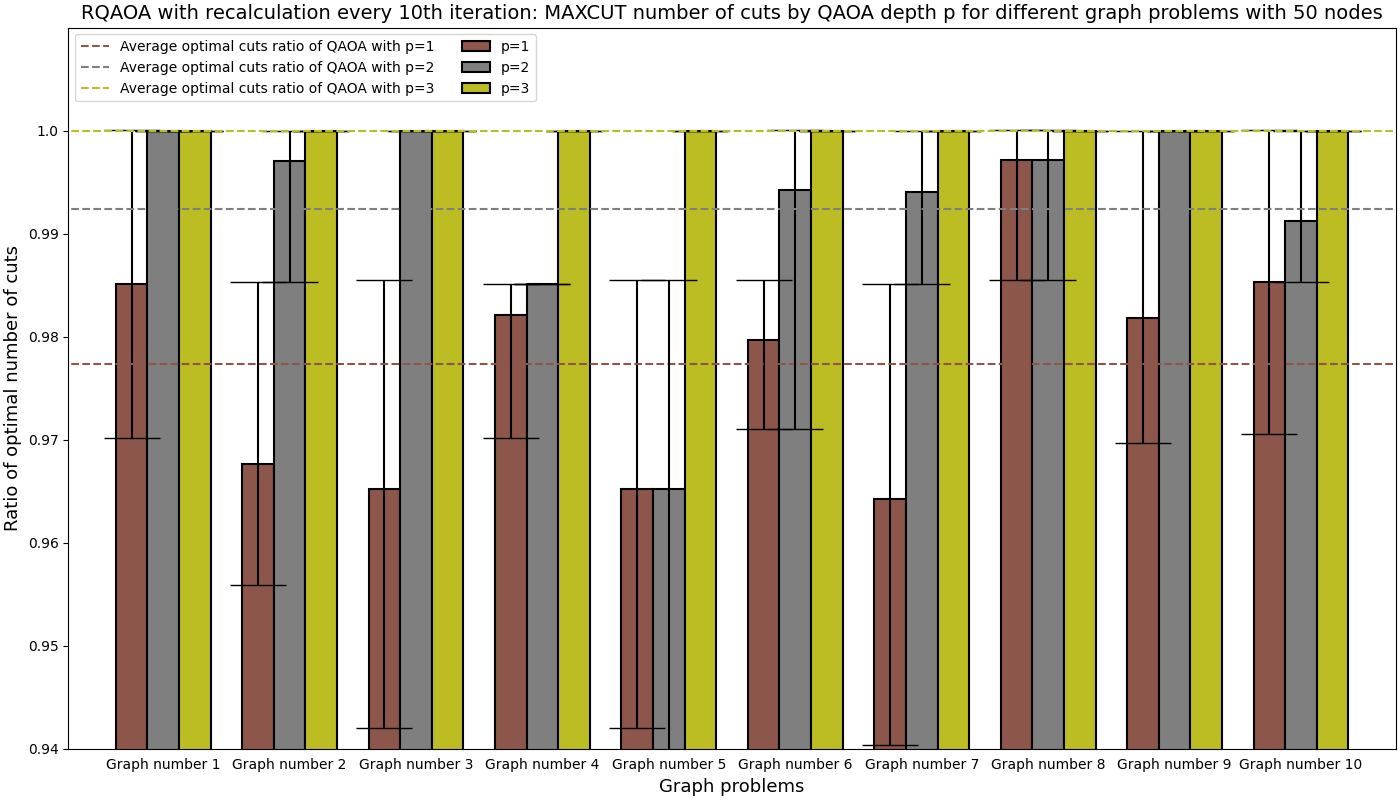
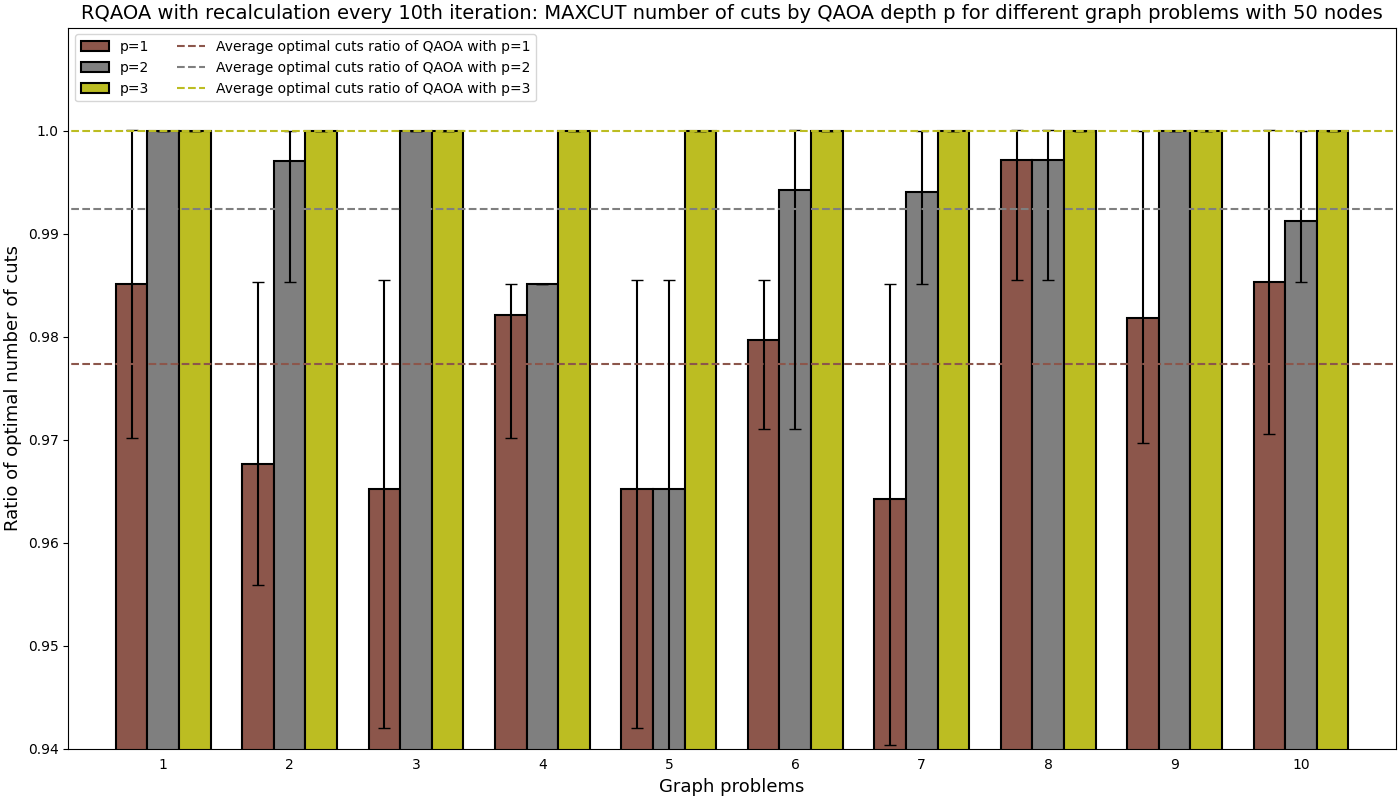
update

Changed region(s): [[0.0614, 0.9375, 0.9829, 0.9688], [0.0614, 0.0312, 0.3686, 0.125]]

diff --git a/Experiments/MAXCUT_RQAOA/scripts/readout_data_files.py b/Experiments/MAXCUT_RQAOA/scripts/readout_data_files.py
@@ -621,12 +621,12 @@ def grouped_bar_chart(ns, ps, runs, regularity, recalculation, iterations, versi
     ax.set_xticks(x + width, x_labels)
     ax.set_yticks([0.94, 0.95, 0.96, 0.97, 0.98, 0.99, 1.0], [0.94, 0.95, 0.96, 0.97, 0.98, 0.99, 1.0])
     ax.legend([handles[idx] for idx in order],[labels[idx] for idx in order], loc='upper left', ncols = 2)
-    ax.legend(loc='upper left', ncols = 2)
+    #ax.legend(loc='upper left', ncols = 2)
     ax.set_ylim(0.94, 1.01)
-    ax.set_xlim(-0.5, 20)
+    ax.set_xlim(-0.5, len(runs))
     ax.tick_params(bottom=False)
 
-    #fig.savefig(my_path + f'/results/Cuts_ratio_per_graph_per_p_iterations_{len(iterations)}_graphs_{runs[0]}_{runs[-1]}_n_{n}_version_{version}.png')
+    fig.savefig(my_path + f'/results/Cuts_ratio_per_graph_per_p_iterations_{len(iterations)}_graphs_{runs[0]}_{runs[-1]}_n_{n}_version_{version}.png')
     plt.show()
 
 def plot_time(ns, ps, runs, regularity, recalculation, iterations, version):
@@ -713,7 +713,7 @@ if __name__ == '__main__':
     recalculations = [5]
     regularity = 3
     #runs = [5, 7, 9]
-    runs = list(range(0, 20))
+    runs = list(range(0, 10))
     recalculation = 10
     version = 3
     iterations = list(range(5))
